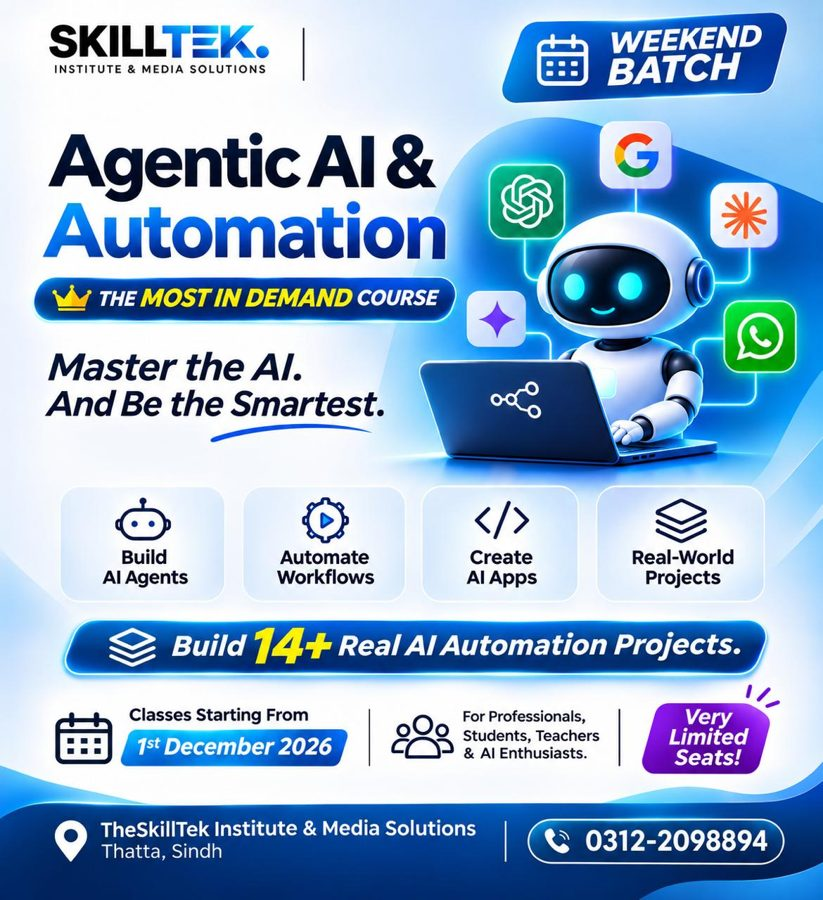
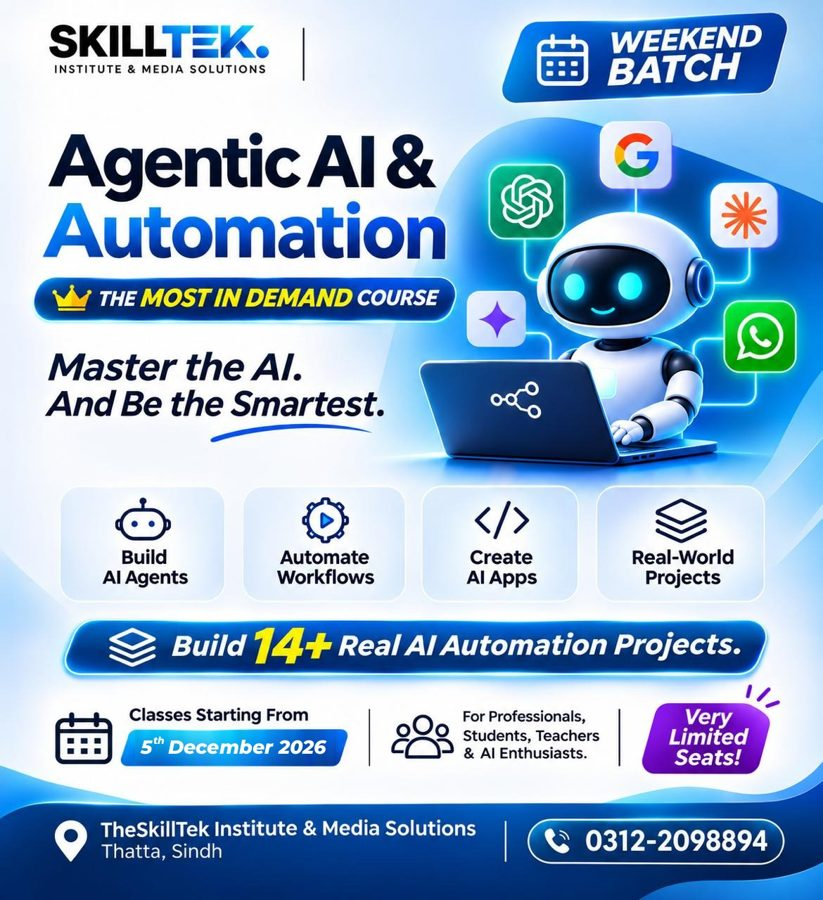
Agentic AI: classes now start 5 Dec 2026 (popup text + poster)
Claude-Session: https://claude.ai/code/session_01VQYM7zjq8eqnazEvMHnpNt

Changed region(s): [[0.1519, 0.8089, 0.4253, 0.84]]

diff --git a/src/components/course-promo-popup.tsx b/src/components/course-promo-popup.tsx
@@ -7,8 +7,8 @@ import { ArrowRight, CalendarDays, Layers, MapPin, Sparkles, Users, X } from "lu
 
 // Agentic AI & Automation weekend batch announcement.
 // Shows once per day per visitor and stops after the batch has started.
-const PROMO_KEY = "promo-agentic-weekend-2026-12";
-const SHOW_UNTIL = new Date("2026-12-08T00:00:00+05:00");
+const PROMO_KEY = "promo-agentic-weekend-2026-12-05";
+const SHOW_UNTIL = new Date("2026-12-12T00:00:00+05:00");
 const DELAY_MS = 2500;
 
 export function CoursePromoPopup() {
@@ -92,14 +92,14 @@ export function CoursePromoPopup() {
         <div className="relative mt-5 overflow-hidden rounded-2xl border border-white/10 bg-white">
           <img
             src="/promo/agentic-ai-weekend.jpg"
-            alt="Agentic AI & Automation — weekend batch starting 1st December 2026 at SkillTek, Thatta"
+            alt="Agentic AI & Automation — weekend batch starting 5th December 2026 at SkillTek, Thatta"
             className="mx-auto max-h-[34vh] w-auto object-contain sm:max-h-[40vh]"
           />
         </div>
 
         <div className="relative mt-4 grid grid-cols-3 gap-2 sm:gap-3">
           {[
-            { icon: CalendarDays, label: "Starts", value: "1 Dec 2026" },
+            { icon: CalendarDays, label: "Starts", value: "5 Dec 2026" },
             { icon: Layers, label: "Projects", value: "14+ real" },
             { icon: Users, label: "Batch", value: "Weekend" },
           ].map(({ icon: Icon, label, value }) => (
